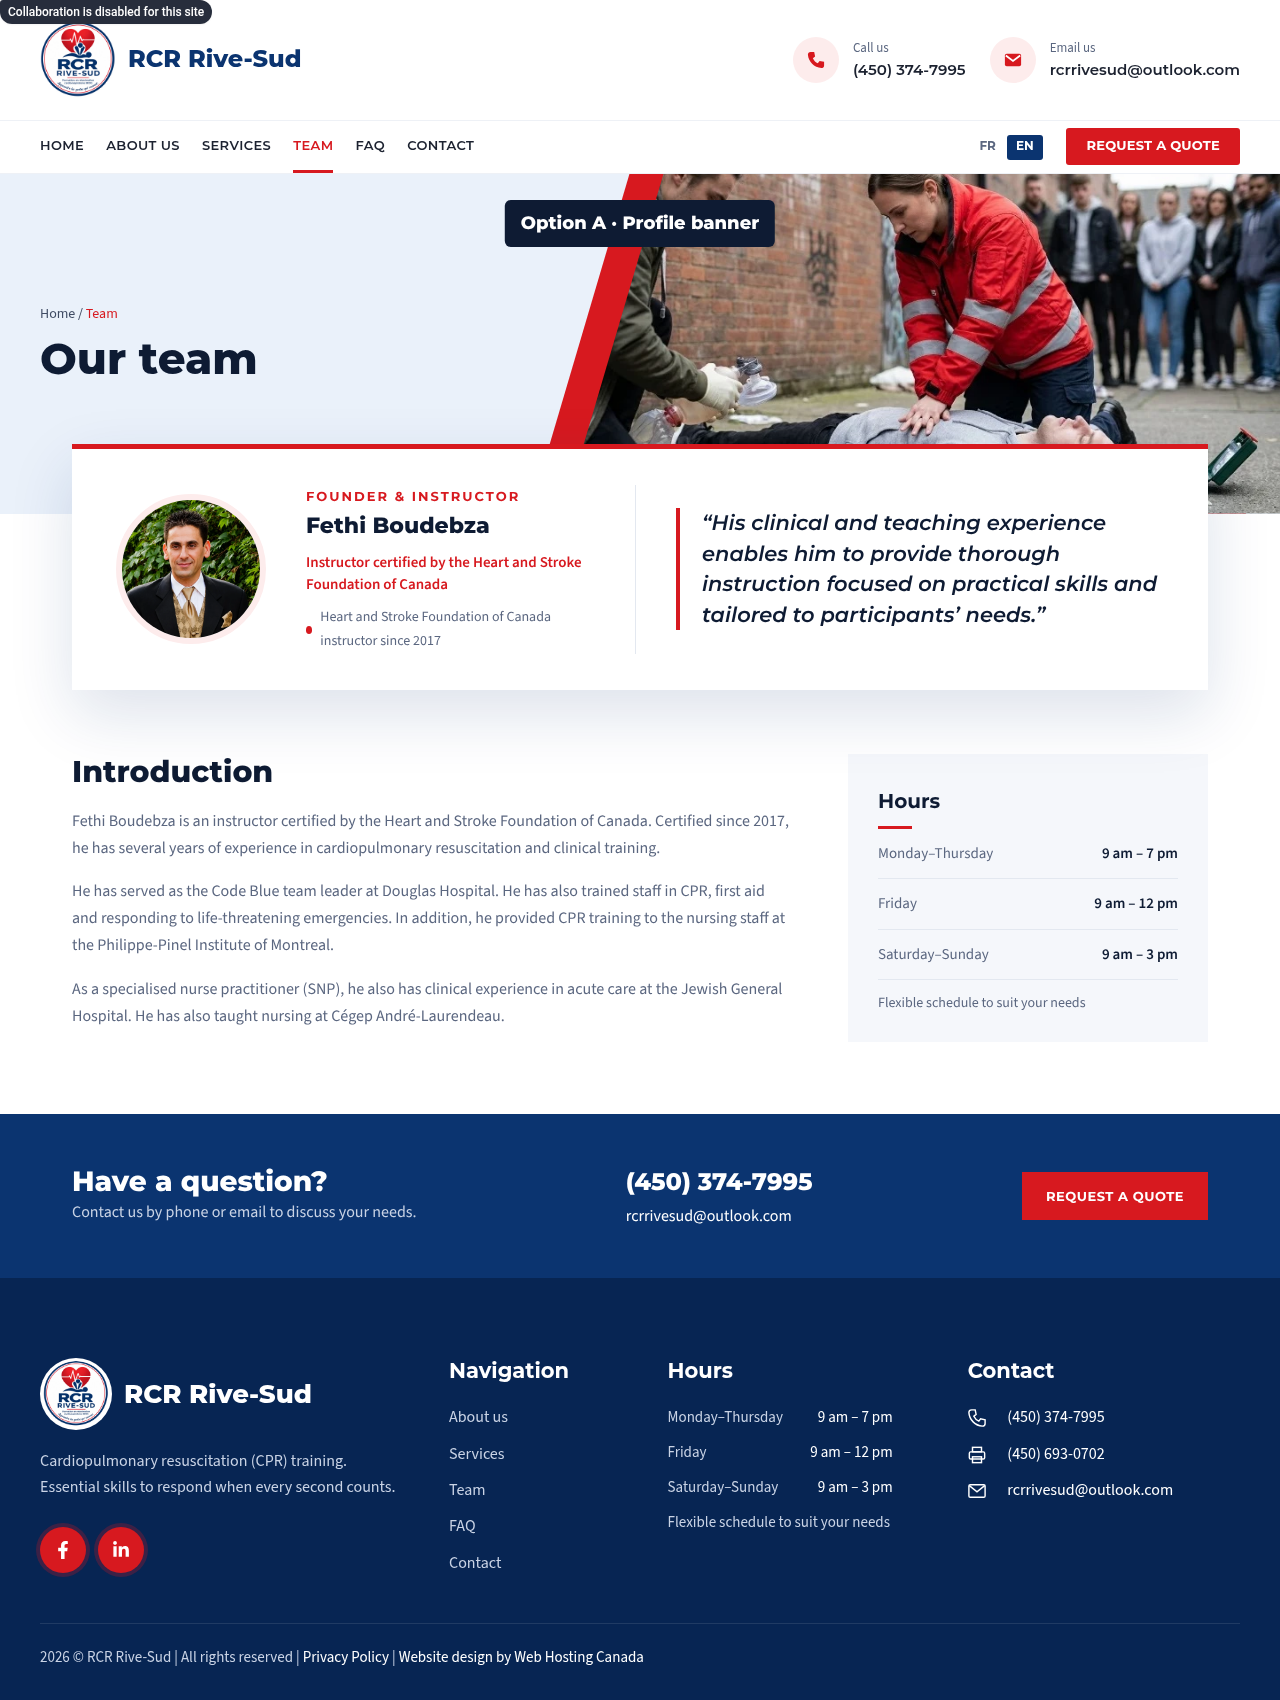
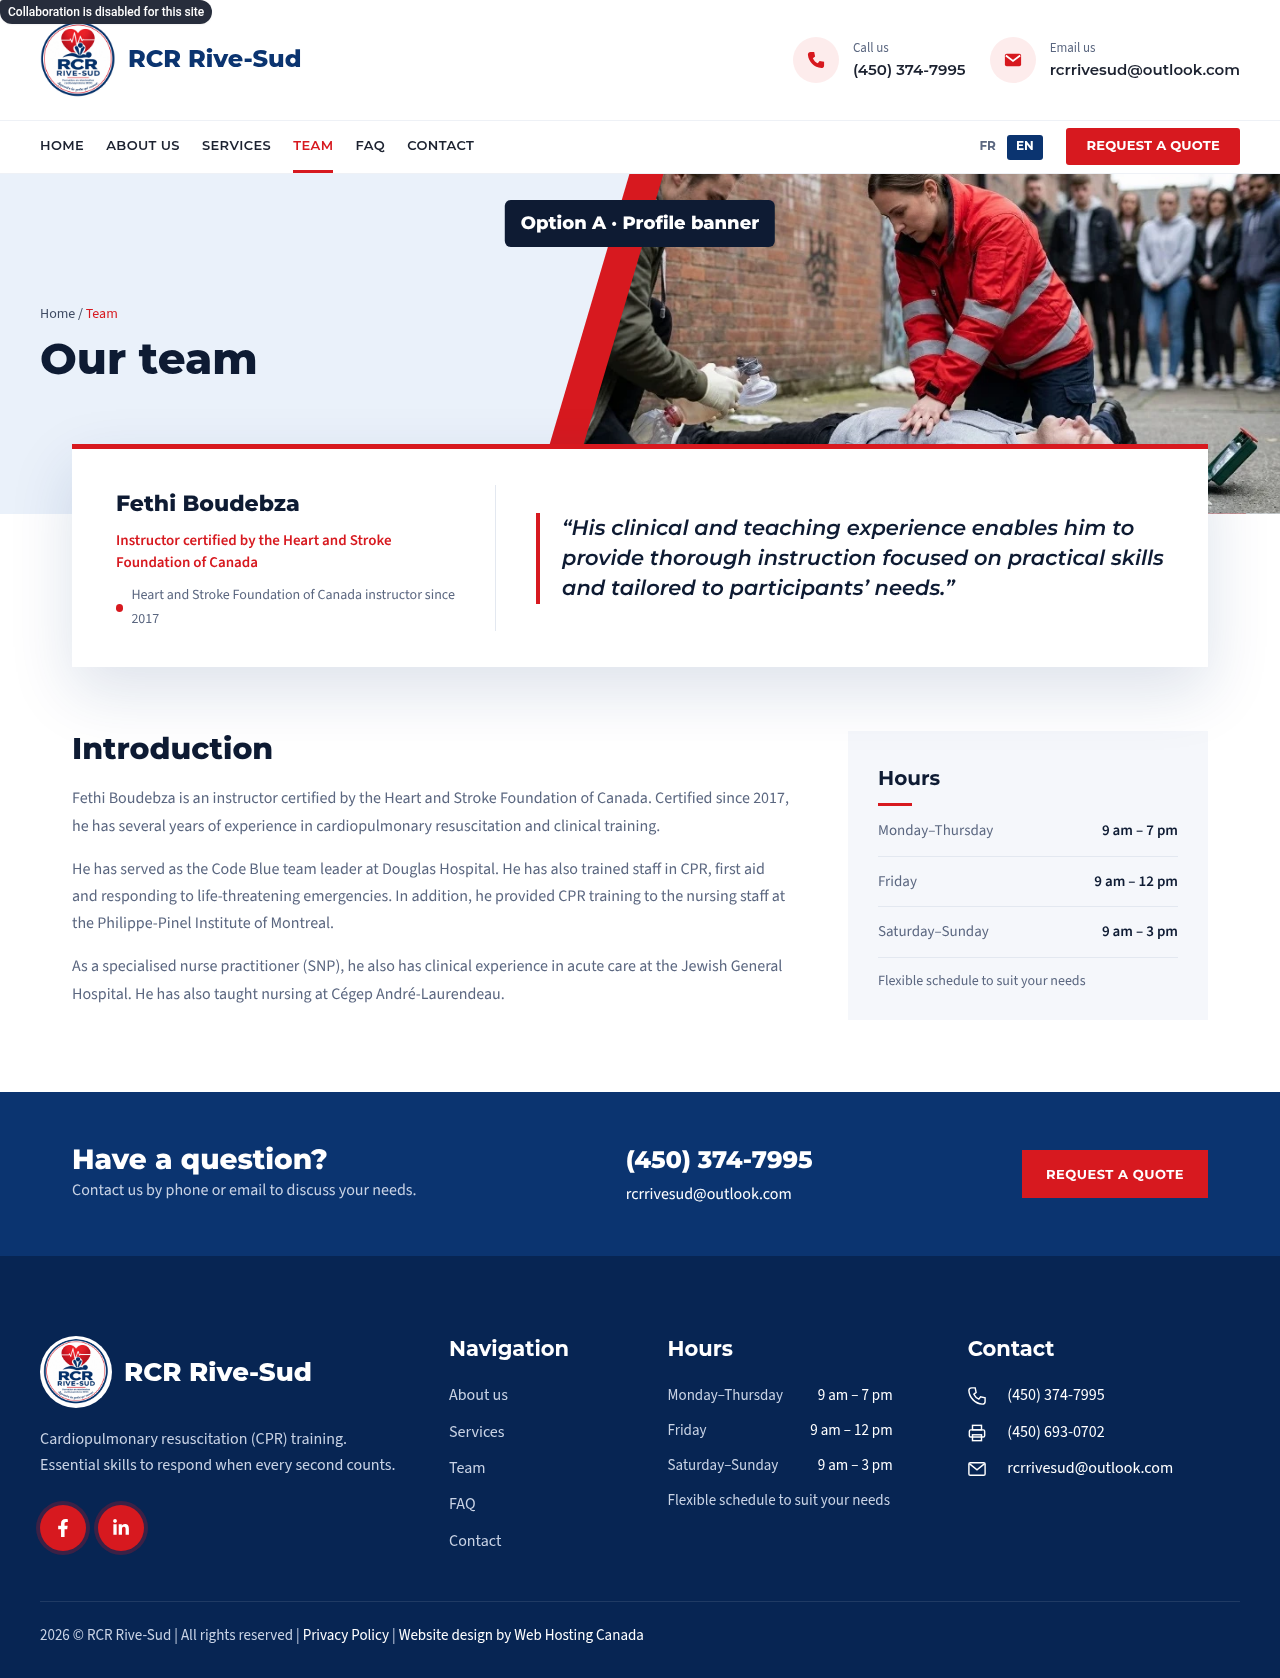
Team layout ideas without any photo of Fethi
Claude-Session: https://claude.ai/code/session_014s7AHDewbCsaYy53xfkXnf

diff --git a/docs/design-ideas/team/b.html b/docs/design-ideas/team/b.html
@@ -1,16 +1,16 @@
 <!doctype html><html><head><meta charset="utf-8"><link rel="stylesheet" href="base.css">
 <style>
 .grid{display:grid;grid-template-columns:340px 1fr;gap:64px;padding:80px 0 90px;align-items:start}
-.side{background:var(--pink);text-align:center;padding:40px 32px 34px;position:relative}
+.side{background:var(--pink);text-align:left;padding:36px 32px 34px;position:relative}
 .side:before{content:"";position:absolute;top:0;left:0;right:0;height:5px;background:var(--red)}
 .side img{width:170px;height:170px;border:6px solid #fff;box-shadow:0 14px 30px rgba(11,52,112,.15)}
-.side .name{margin-top:18px}
+.side .name{margin-top:0;font-size:26px}
 .side .cred{margin:8px 0 14px;font-weight:600}
 .side .since{font-size:14px;border-top:1px solid rgba(215,25,31,.2);padding-top:14px}
 .side .btn{margin-top:22px}
 .main h2{margin-bottom:18px}
 .main .quote{margin-bottom:24px}
-.cards{display:grid;grid-template-columns:1fr 1fr;gap:24px;margin-top:40px}
+.cards{margin-top:36px}.q{display:grid;grid-template-columns:1fr auto;gap:8px 32px;align-items:center;padding:32px 36px}.q .btn{grid-column:2;grid-row:1/span 4}
 .hours{background:var(--soft);padding:28px}
 .q{background:var(--navy) url(rcr-rive-sud-cpr-instructor.webp) center/cover;position:relative;color:#C9D3E5;padding:28px}
 .q:before{content:"";position:absolute;inset:0;background:rgba(11,52,112,.9)}
@@ -21,20 +21,21 @@
 </style></head><body><div class="tag">Option B · Profile sidebar</div>
 <img class="band" src="top.png">
 <div class="wrap"><div class="grid">
- <div class="side"><img class="portrait" src="fethi-boudebza-portrait.webp">
+<div>
+ <div class="side">
   <div class="name">Fethi Boudebza</div>
   <div class="cred">Instructor certified by the Heart and Stroke Foundation of Canada</div>
   <div class="since">Heart and Stroke Foundation of Canada instructor since 2017</div>
-  <span class="btn">Request a quote</span></div>
+  </div>
+   <div class="hours" style="margin-top:24px"><h3>Hours</h3>
+    <div class="row"><span>Monday–Thursday</span><b>9 am – 7 pm</b></div><div class="row"><span>Friday</span><b>9 am – 12 pm</b></div><div class="row"><span>Saturday–Sunday</span><b>9 am – 3 pm</b></div>
+    <div class="note">Flexible schedule to suit your needs</div></div></div>
  <div class="main"><h2>Introduction</h2>
   <div class="quote">“His clinical and teaching experience enables him to provide thorough instruction focused on practical skills and tailored to participants’ needs.”</div>
   <p>Fethi Boudebza is an instructor certified by the Heart and Stroke Foundation of Canada. Certified since 2017, he has several years of experience in cardiopulmonary resuscitation and clinical training.</p>
   <p>He has served as the Code Blue team leader at Douglas Hospital. He has also trained staff in CPR, first aid and responding to life-threatening emergencies. In addition, he provided CPR training to the nursing staff at the Philippe-Pinel Institute of Montreal.</p>
   <p>As a specialised nurse practitioner (SNP), he also has clinical experience in acute care at the Jewish General Hospital. He has also taught nursing at Cégep André-Laurendeau.</p>
   <div class="cards">
-   <div class="hours"><h3>Hours</h3>
-    <div class="row"><span>Monday–Thursday</span><b>9 am – 7 pm</b></div><div class="row"><span>Friday</span><b>9 am – 12 pm</b></div><div class="row"><span>Saturday–Sunday</span><b>9 am – 3 pm</b></div>
-    <div class="note">Flexible schedule to suit your needs</div></div>
    <div class="q"><h3>Have a question?</h3><div>Contact us by phone or email to discuss your needs.</div>
     <div class="ph">(450) 374-7995</div><div class="em">rcrrivesud@outlook.com</div><span class="btn">Request a quote</span></div>
   </div></div>

diff --git a/docs/design-ideas/team/a.html b/docs/design-ideas/team/a.html
@@ -2,7 +2,7 @@
 <style>
 .profile{margin-top:-70px;position:relative;z-index:2;background:#fff;box-shadow:0 24px 60px rgba(11,52,112,.14);border-top:5px solid var(--red);display:flex;gap:40px;align-items:center;padding:36px 44px}
 .profile img{width:150px;height:150px;border:6px solid var(--pink)}
-.profile .meta{flex:0 0 330px;border-right:1px solid #E3E8F0;padding-right:36px}
+.profile .meta{flex:0 0 380px;border-right:1px solid #E3E8F0;padding-right:36px}
 .profile .meta .cred{margin:8px 0 10px;font-weight:600}
 .profile .meta .since{font-size:14px;display:flex;align-items:center;gap:8px}
 .profile .meta .since:before{content:"";width:8px;height:8px;border-radius:50%;background:var(--red)}
@@ -19,8 +19,7 @@
 <img class="band" src="top.png">
 <div class="wrap">
  <div class="profile">
-  <img class="portrait" src="fethi-boudebza-portrait.webp">
-  <div class="meta"><div class="eyebrow">Founder &amp; instructor</div><div class="name">Fethi Boudebza</div>
+  <div class="meta"><div class="name">Fethi Boudebza</div>
    <div class="cred">Instructor certified by the Heart and Stroke Foundation of Canada</div>
    <div class="since">Heart and Stroke Foundation of Canada instructor since 2017</div></div>
   <div class="quote">“His clinical and teaching experience enables him to provide thorough instruction focused on practical skills and tailored to participants’ needs.”</div>

diff --git a/docs/design-ideas/team/c.html b/docs/design-ideas/team/c.html
@@ -1,8 +1,8 @@
 <!doctype html><html><head><meta charset="utf-8"><link rel="stylesheet" href="base.css">
 <style>
-.intro{text-align:center;padding:76px 0 56px;max-width:820px;margin:0 auto}
+.intro{text-align:center;padding:72px 0 48px;max-width:820px;margin:0 auto}
 .intro img{width:160px;height:160px;border:6px solid var(--pink);box-shadow:0 14px 30px rgba(11,52,112,.14)}
-.intro .name{font-size:30px;margin-top:18px}
+.intro .name{font-size:34px;margin-top:0}
 .intro .cred{font-size:17px;font-weight:600;margin-top:6px}
 .intro .quote{border:0;padding:0;margin:30px auto 0;font-size:22px;position:relative}
 .intro .quote:before{content:"“";display:block;font-size:80px;line-height:.6;color:var(--red);margin-bottom:6px}
@@ -22,7 +22,7 @@
 </style></head><body><div class="tag">Option C · Centred profile</div>
 <img class="band" src="top.png">
 <div class="wrap">
- <div class="intro"><img class="portrait" src="fethi-boudebza-portrait.webp">
+ <div class="intro">
   <div class="name">Fethi Boudebza</div>
   <div class="cred">Instructor certified by the Heart and Stroke Foundation of Canada</div>
   <div class="quote">His clinical and teaching experience enables him to provide thorough instruction focused on practical skills and tailored to participants’ needs.</div></div>
